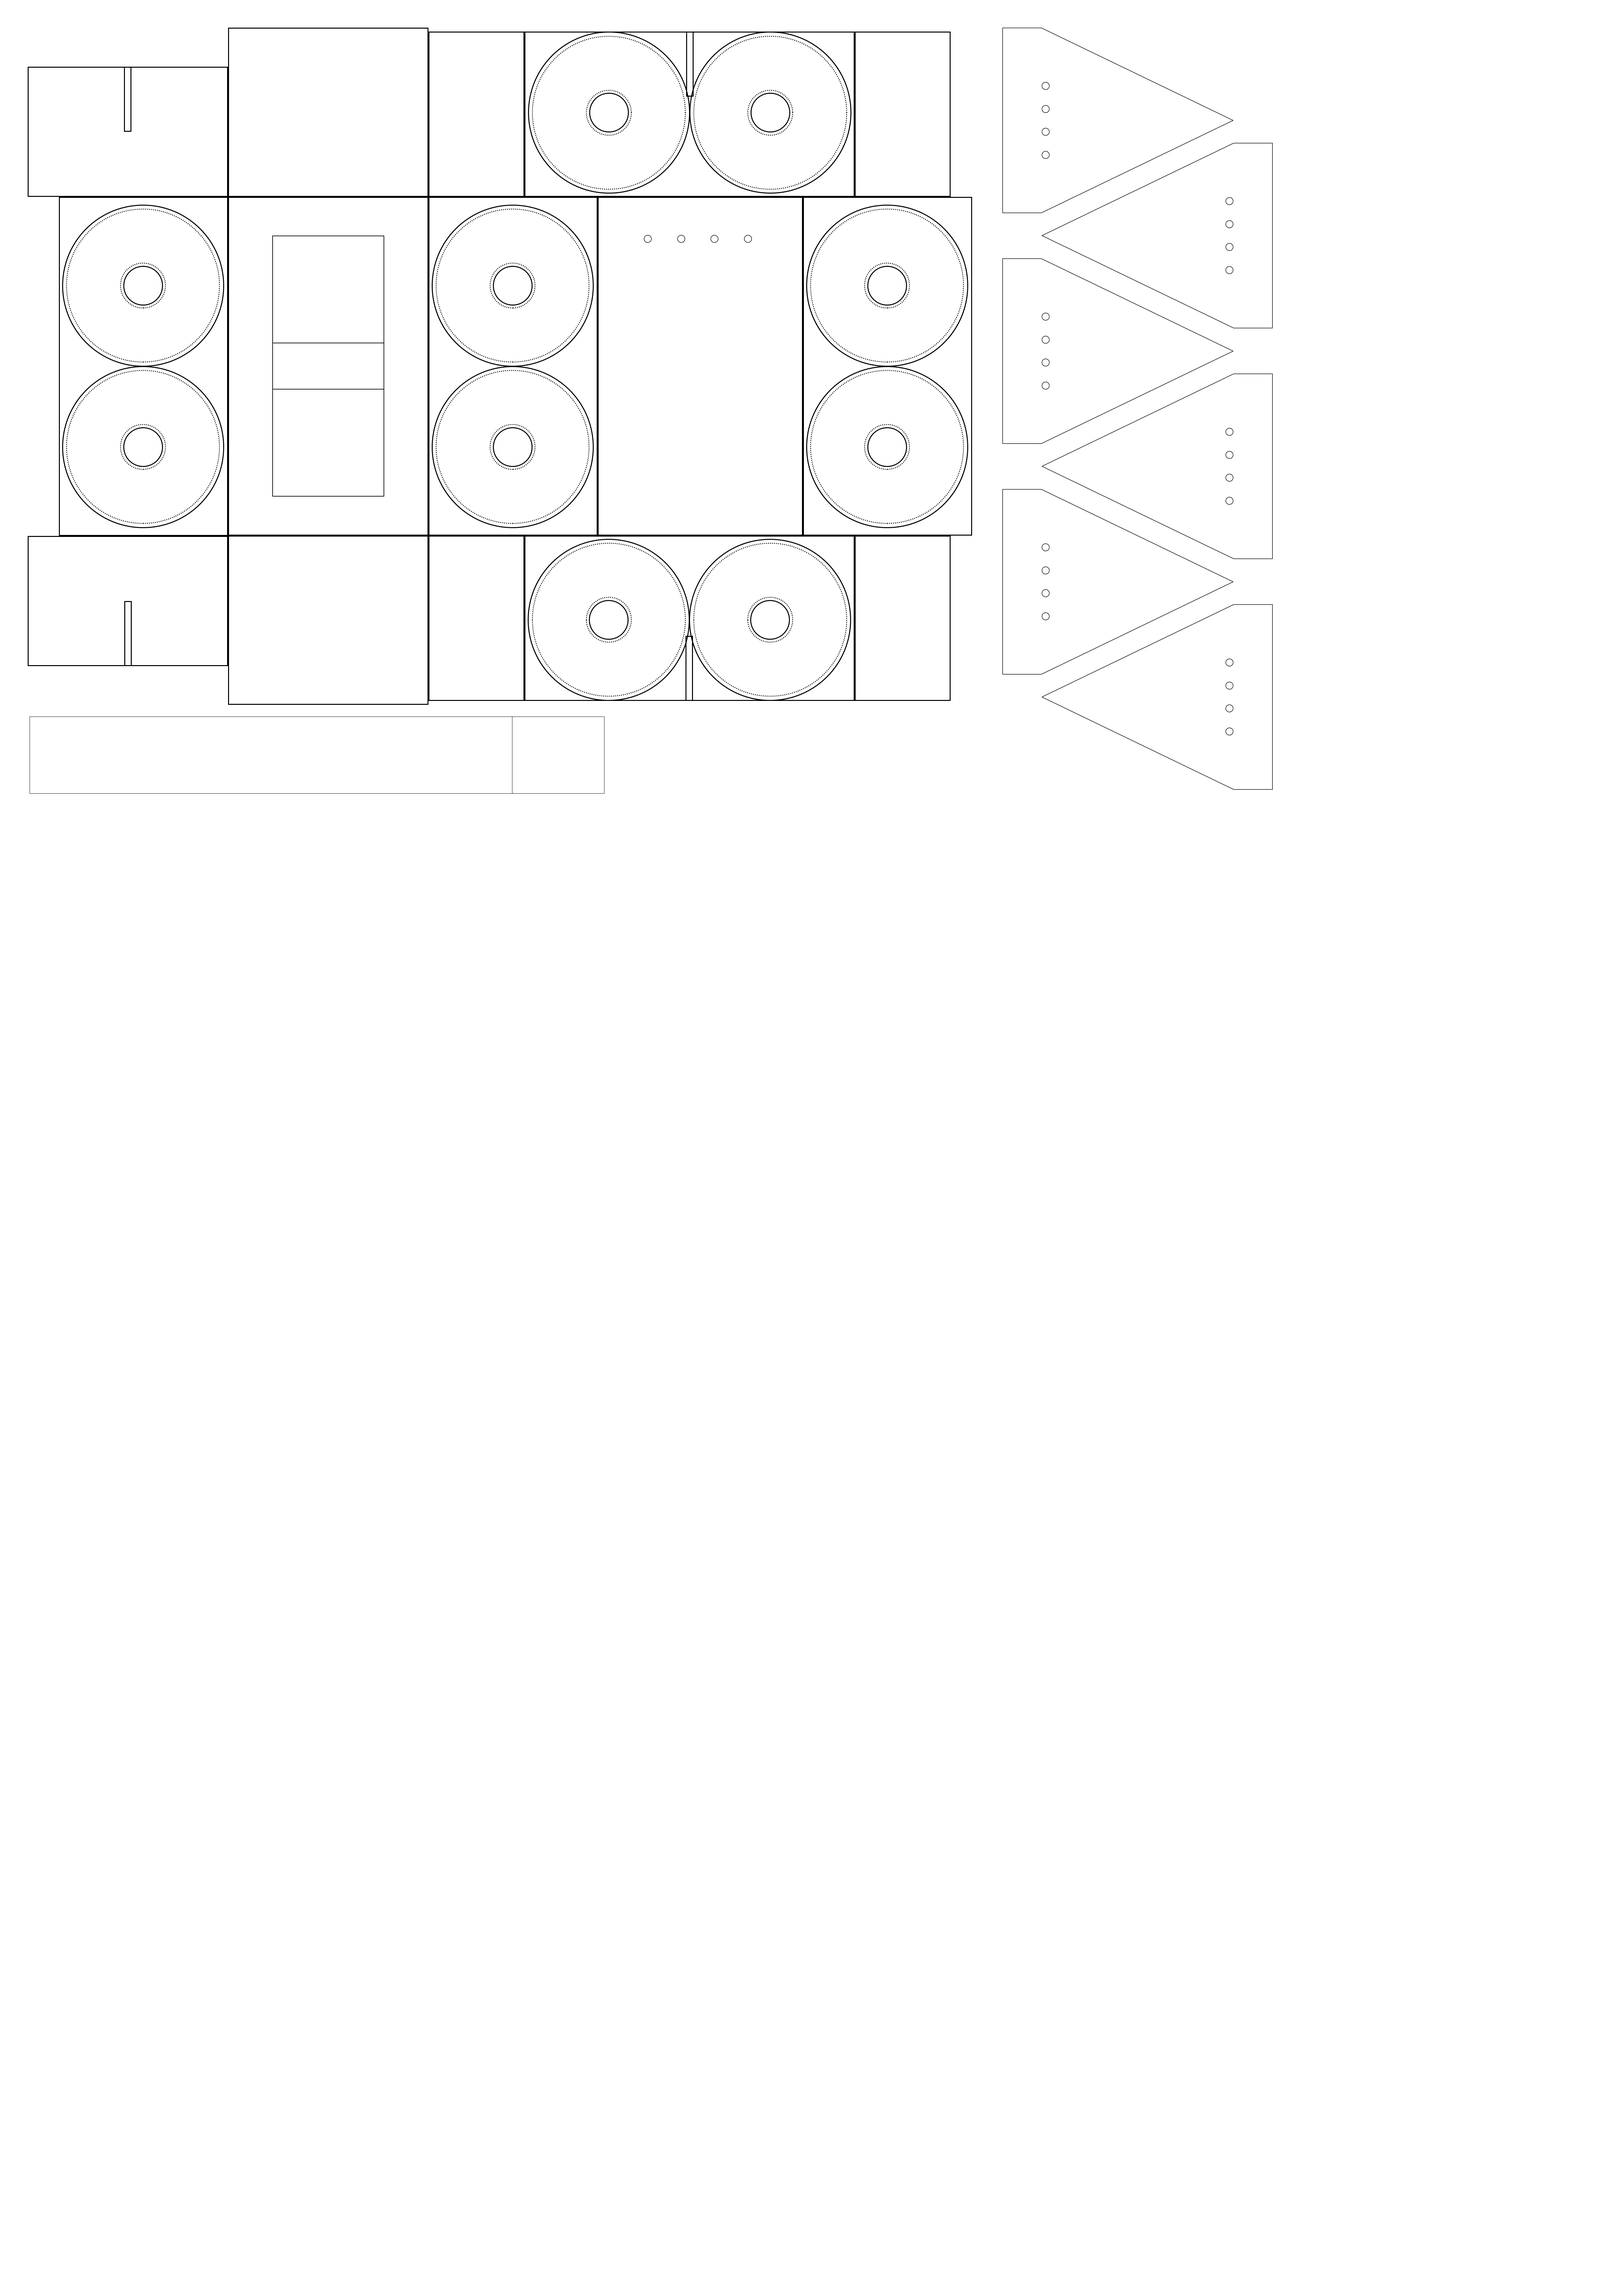
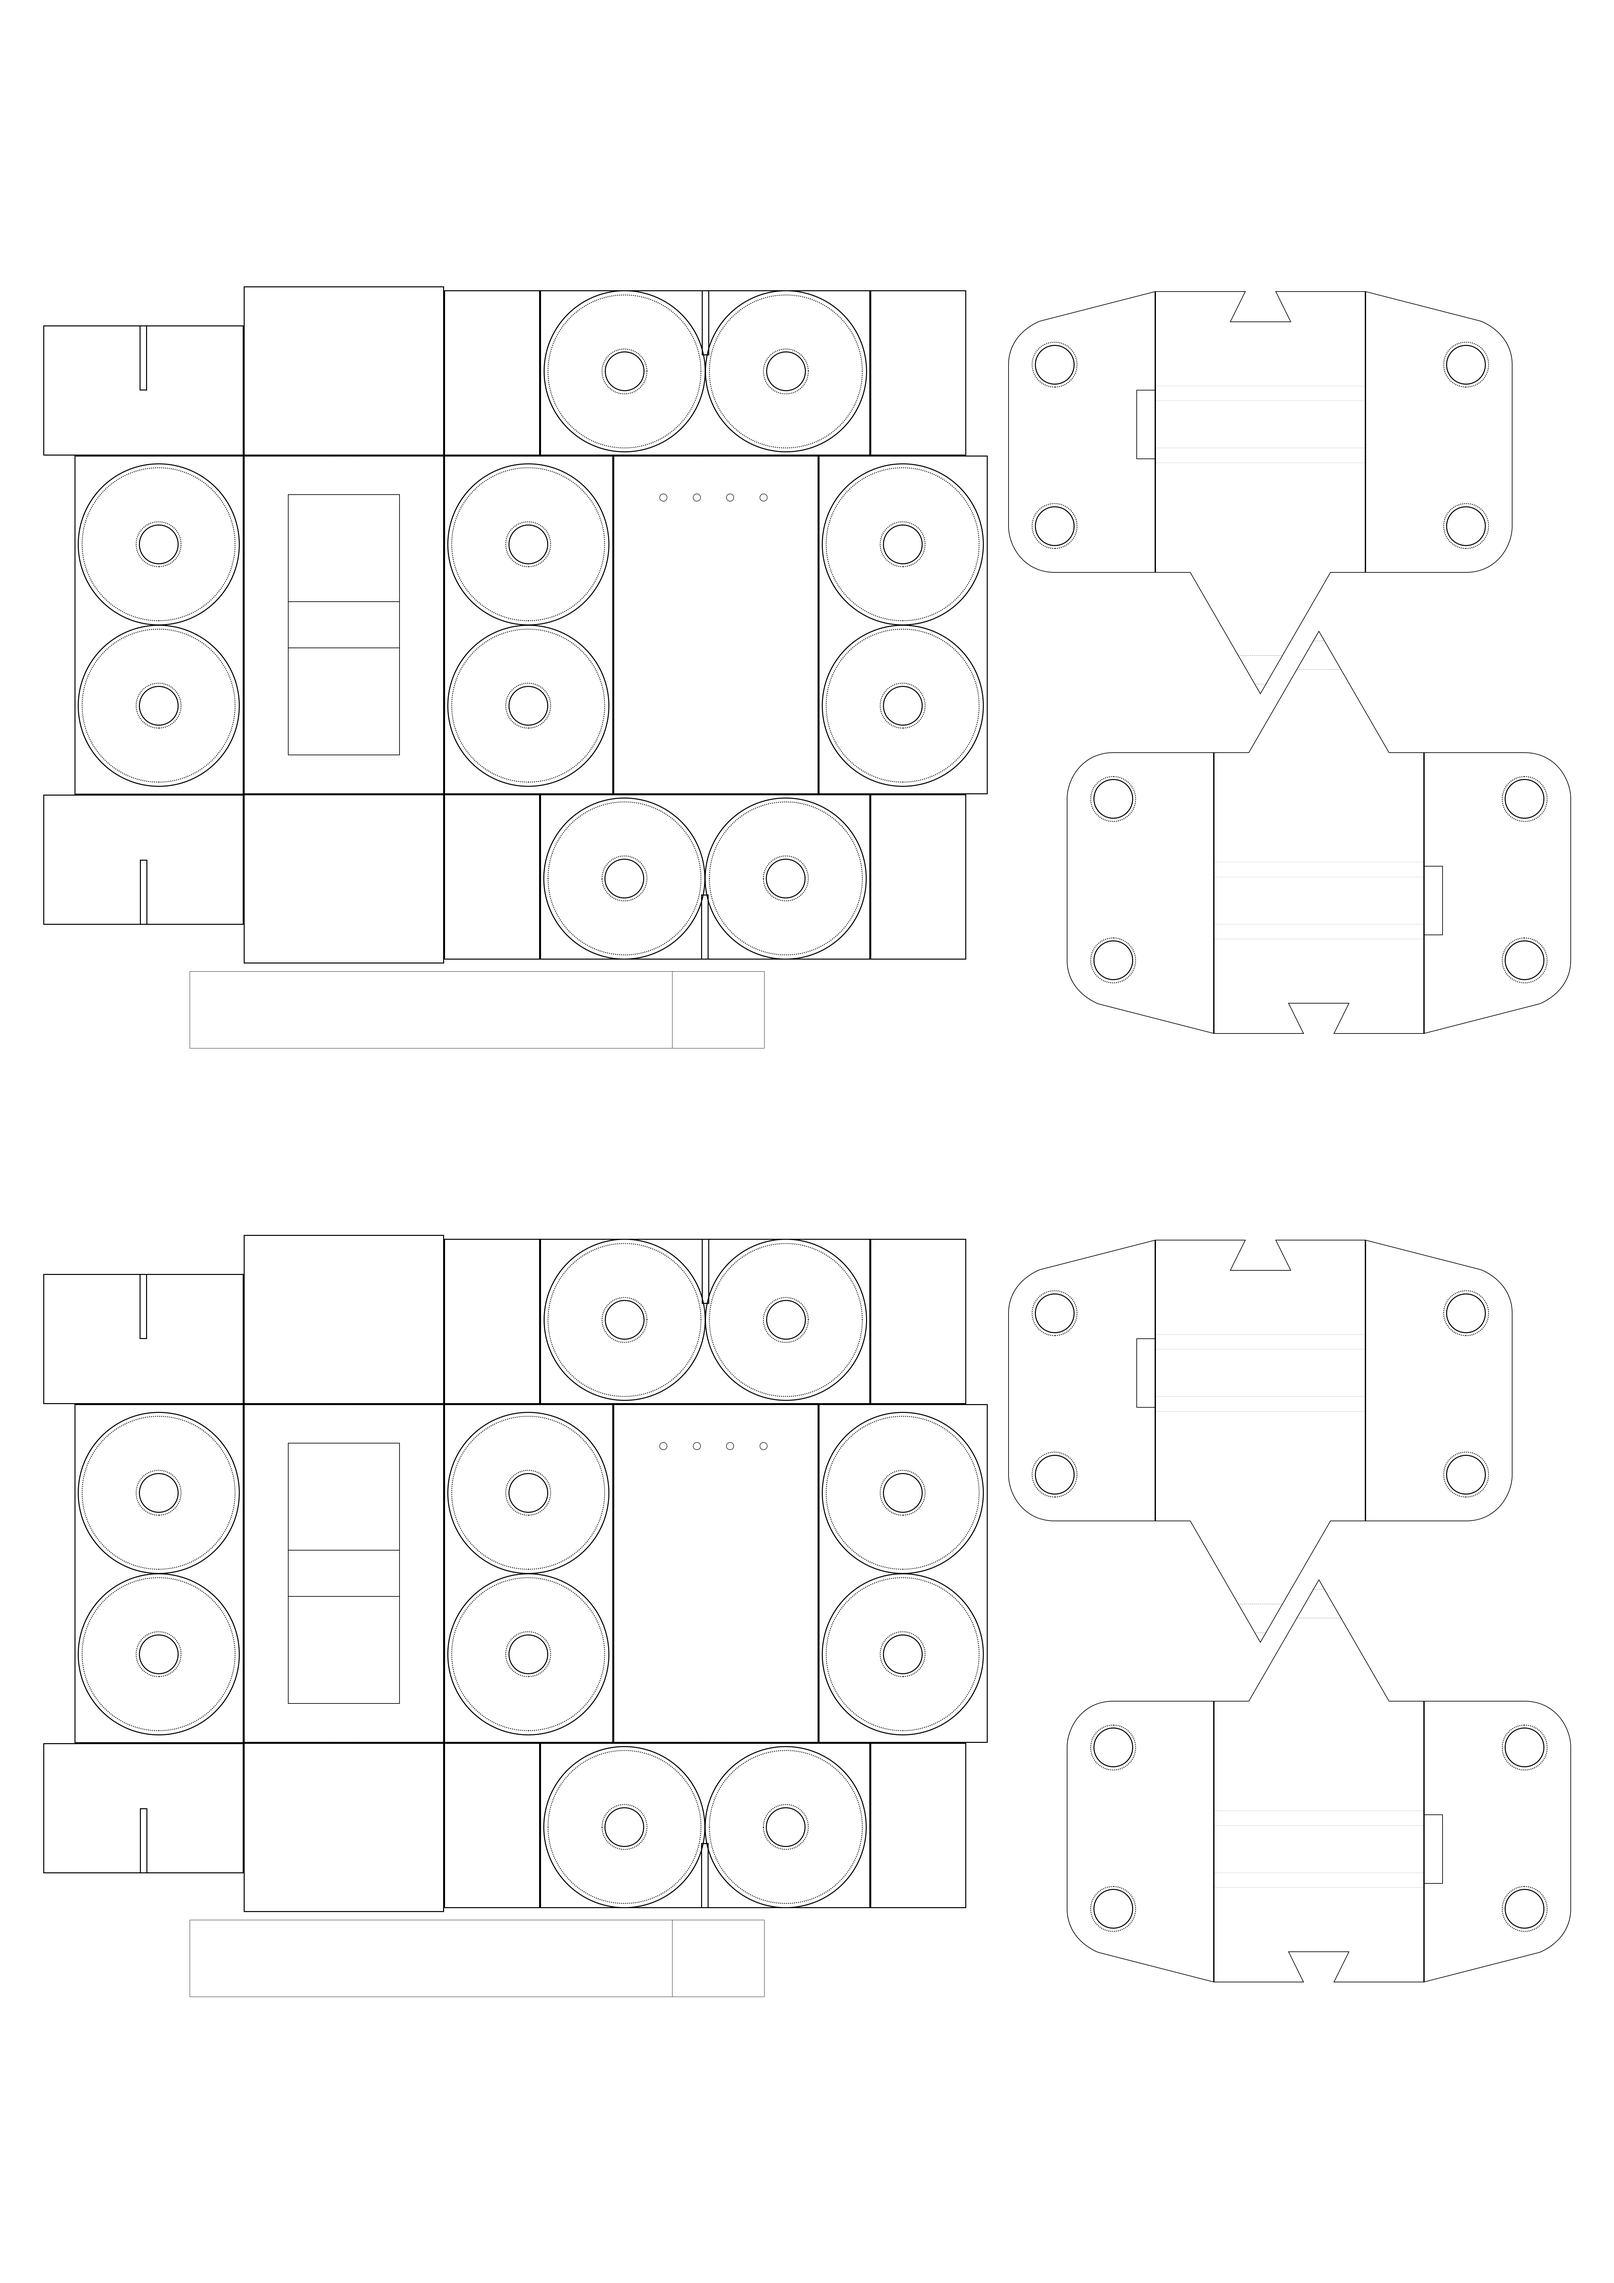
v2.0.6

diff --git a/README.md b/README.md
@@ -1,33 +1,46 @@
 ## 缠花铺线器
 
 1、四股线永远平行
+
 2、无需再理线和接线
 
-考虑到成本问题，最终选用卡纸制作。
-当然也可以做成3D打印方案
+原本是打算用3D打印实现这个结构的，但考虑到成本问题，目前白卡纸/pvc板制作是最佳方案。这样铺线器可以一个颜色做一个，减少不必要的换线流程。
 
-请用不干胶打印图纸后粘贴到铜版卡纸上组装
-线卷内装的是标准家用机梭心
+**结构**：由线盒、理线梳、线簧、线夹、出线口组成。目前公开方案暂时简化了线簧，因为感觉没必要。
 
-#### 材料：
+**线盒**：可以不拘于图上的形式，你甚至可以4个梭心单排一条直线。
 
-	不干胶打印的图纸
-	350g铜版卡纸
-	透明胶
-	橡皮筋
-	5mm小吸管
+**线梳**：不一定是纸打孔，可以是几张卡纸叠起来线从中间穿过。甚至可以用根弹簧做线梳，或者8个垫片加螺丝杆加弹簧控制压力变成线梳线夹一体化。
 
-#### 工具：
+**线夹**：任何能让抽出线时有阻力的方案都可以叫线夹。甚至可以把线夹做到锁芯内部，控制梭心转动来实现（甚至可以加个橡皮筋让梭心自动回转以实现线夹线簧一体化）。
 
-	剪刀、刻刀、迷你手钻
+**线簧**：当前公开图纸简化了此物，让线变得有弹性(会自动回缩)以减少滑线（无线簧上下坡位置手稍微绕一下也能达成差不多的效果，遂简化）。
+
+**出线口**：不一定是纸的，任何可以把多股线约束到某个宽度的都算出线口。
+
+**股数**：不一定用4股线，你甚至可以加大一下盒子做成6股8股12股，也可以只上一个梭心做单股战神。甚至多股线绕1个梭心上做成极小版本。
+
+
+
+
+———————————————————————————————————————————————————
+
+### 制作&组装：
+请用不干胶打印图纸后粘贴到铜版卡纸上组装，线卷内装的是标准家用机梭心
+
+**材料**：不干胶打印的图纸、350g铜版卡纸、透明胶、橡皮筋、5mm小吸管
+
+**工具**：剪刀、刻刀、迷你手钻
 
 
 
 ### 关于授权:
 
 遵循 CC-BY-NC-SA 3.0开源许可开源（可自由修改，分享，不可商用！）
+
 CC-BY-NC-SA 3.0 开源许可介绍：https://creativecommons.org/licenses/by-nc-sa/3.0/
 
+若后期增加电路和单片机，可能会追加其他开源协议。
 
 
 ### 更新日志：
@@ -35,5 +48,18 @@ CC-BY-NC-SA 3.0 开源许可介绍：https://creativecommons.org/licenses/by-nc-
 #### v2.0.3 2024-02-21 19:03:05
 
 	增加了线梳图纸
+
 	加宽铺线器宽度，避免装入了微变形的梭心导致抽线卡住。
+
+#### v2.0.4 2024-02-21 19:03:05
+
+	改进线夹
+
+#### v2.0.5 2024-02-21 19:03:05
+	
+	改进线夹切口，取消盖子图纸
+
+#### v2.0.6 2024-02-21 19:03:05
+	
+	线梳线夹平台切口改进
 
